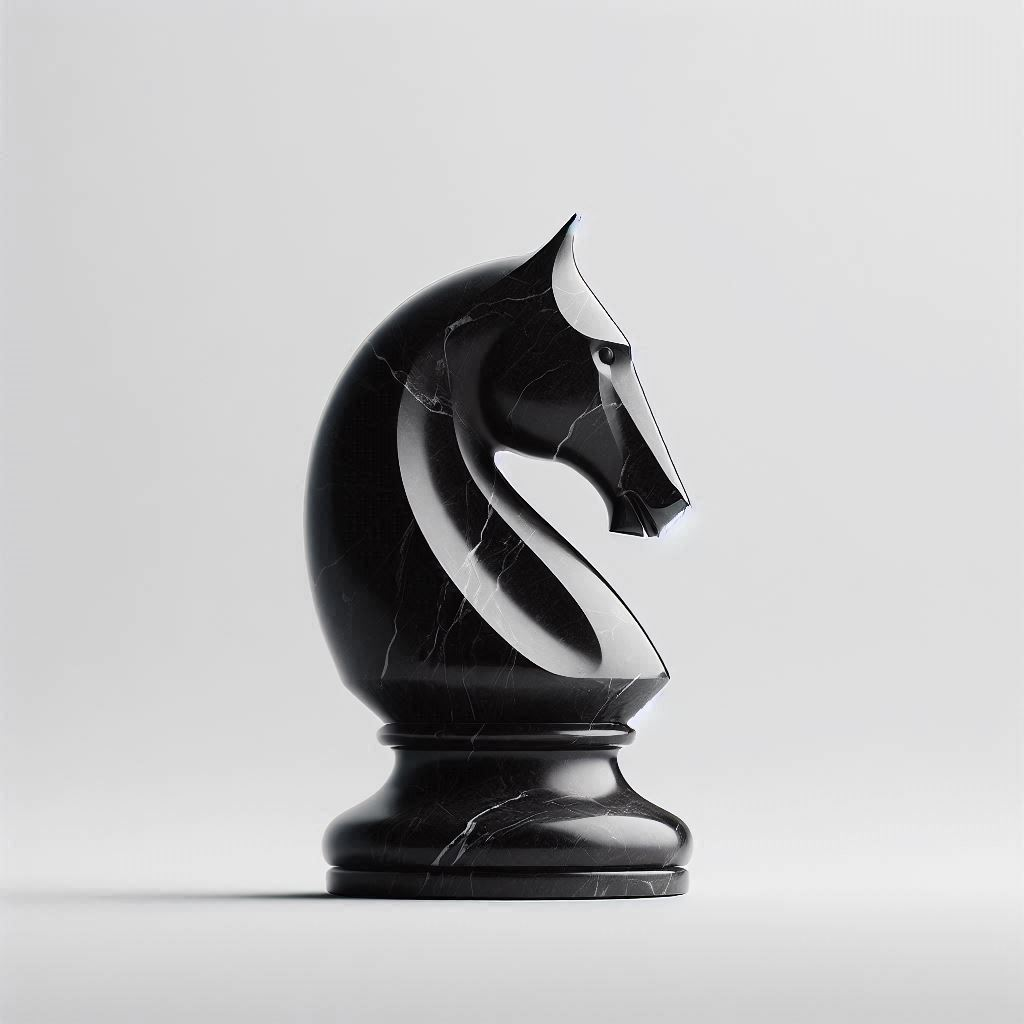
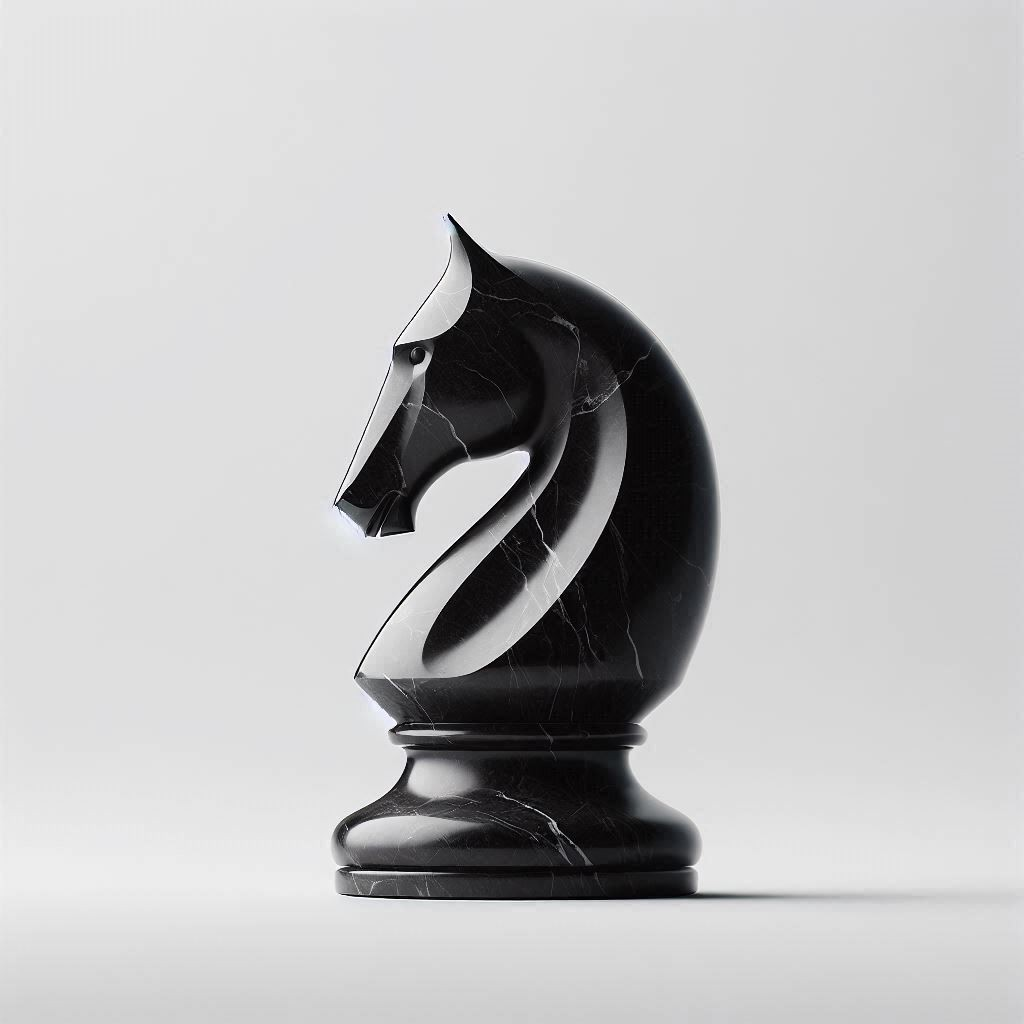
Fix: Actualizar metadatos del sitio para reflejar Shark Market

Changed region(s): [[0.0312, 0.2188, 1.0, 0.9062]]

diff --git a/components/HeroSection.tsx b/components/HeroSection.tsx
@@ -14,7 +14,7 @@ const HeroSection = () => {
               La Ventaja que se Compra.
             </h1>
             <p className="mt-6 text-lg leading-8 text-zinc-600">
-              Accede a sistemas de negocio y estrategias validadas por líderes de la industria.
+              Accede a sistemas de negocio y estrategias 100% validadas por líderes de la industria.
             </p>
             <div className="mt-10 flex items-center justify-center gap-x-6 lg:justify-start">
               <Link 
@@ -35,7 +35,7 @@ const HeroSection = () => {
           {/* --- BLOQUE DE IMAGEN CON EFECTO DE FUNDIDO --- */}
           <div className="relative aspect-[3/2] w-full">
             <Image
-              src="/images/image-9.jpg" // <-- Cambia a tu imagen
+              src="/images/opcion-9.jpg" // <-- Cambia a tu imagen
               alt="Estrategia y herramientas de negocio de Shark Market"
               width={1200}
               height={800}
